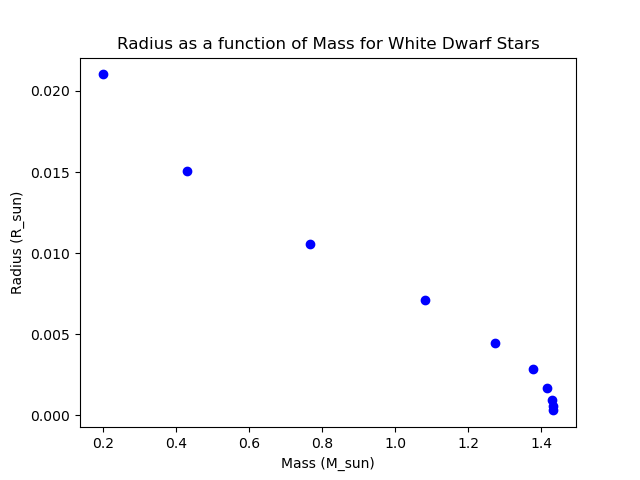
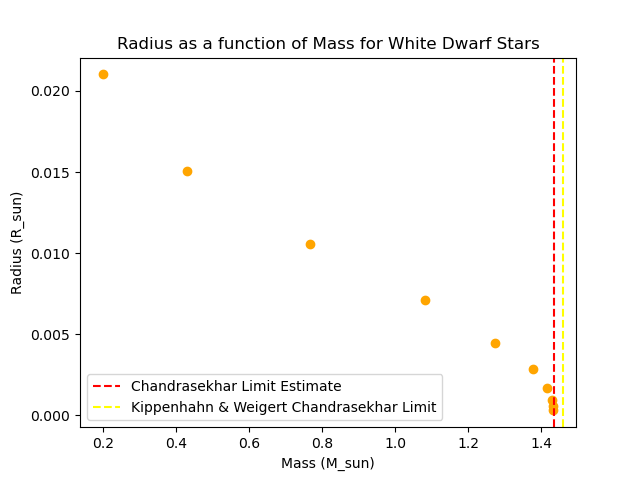
Plotting Observational data

diff --git a/HembruffAidan_Project3.py b/HembruffAidan_Project3.py
@@ -119,8 +119,12 @@ def linear(x,m,b):
 curve =  curve_fit(linear,m_vals,r_vals)
 Chandrasekhar_estimate = -curve[0][1]/curve[0][0]
 
+limit_diff = (np.abs(Chandrasekhar_estimate - (5.836/4))/((Chandrasekhar_estimate+(5.836/4))/2))*100
+print("The percent difference between the estimated Chandrasekhar limit and Kippenhand & Weigert's" +
+      "estimation is : %f percent" %limit_diff)
+
 fig1 = plt.figure()
-plt.scatter(dimensional_m,dimensional_r, color = "blue")
+plt.scatter(dimensional_m,dimensional_r, color = "orange")
 plt.axvline(Chandrasekhar_estimate,color='red',label="Chandrasekhar Limit Estimate", linestyle = "dashed")
 plt.axvline(5.836/4,color='yellow',label="Kippenhahn & Weigert Chandrasekhar Limit", linestyle = "dashed")
 plt.title("Radius as a function of Mass for White Dwarf Stars")
@@ -128,8 +132,6 @@ plt.xlabel("Mass (M_sun)")
 plt.ylabel("Radius (R_sun)")
 plt.legend()
 plt.savefig("HembruffAidan_Project3_Fig1.png")
-
-
     
 
 # %%
@@ -144,6 +146,7 @@ radius_unc = data["R_unc"]
 
 # plotting observational data
 plt.scatter(mass_data,radius_data)
-#plt.errorbar(mass_data,radius_data,mass_unc,radius_unc)
+plt.errorbar(mass_data,radius_data,xerr=mass_unc,yerr=radius_unc,fmt='o')
 
+plt.savefig("HembruffAidan_Project3_Fig2")
 plt.show()
